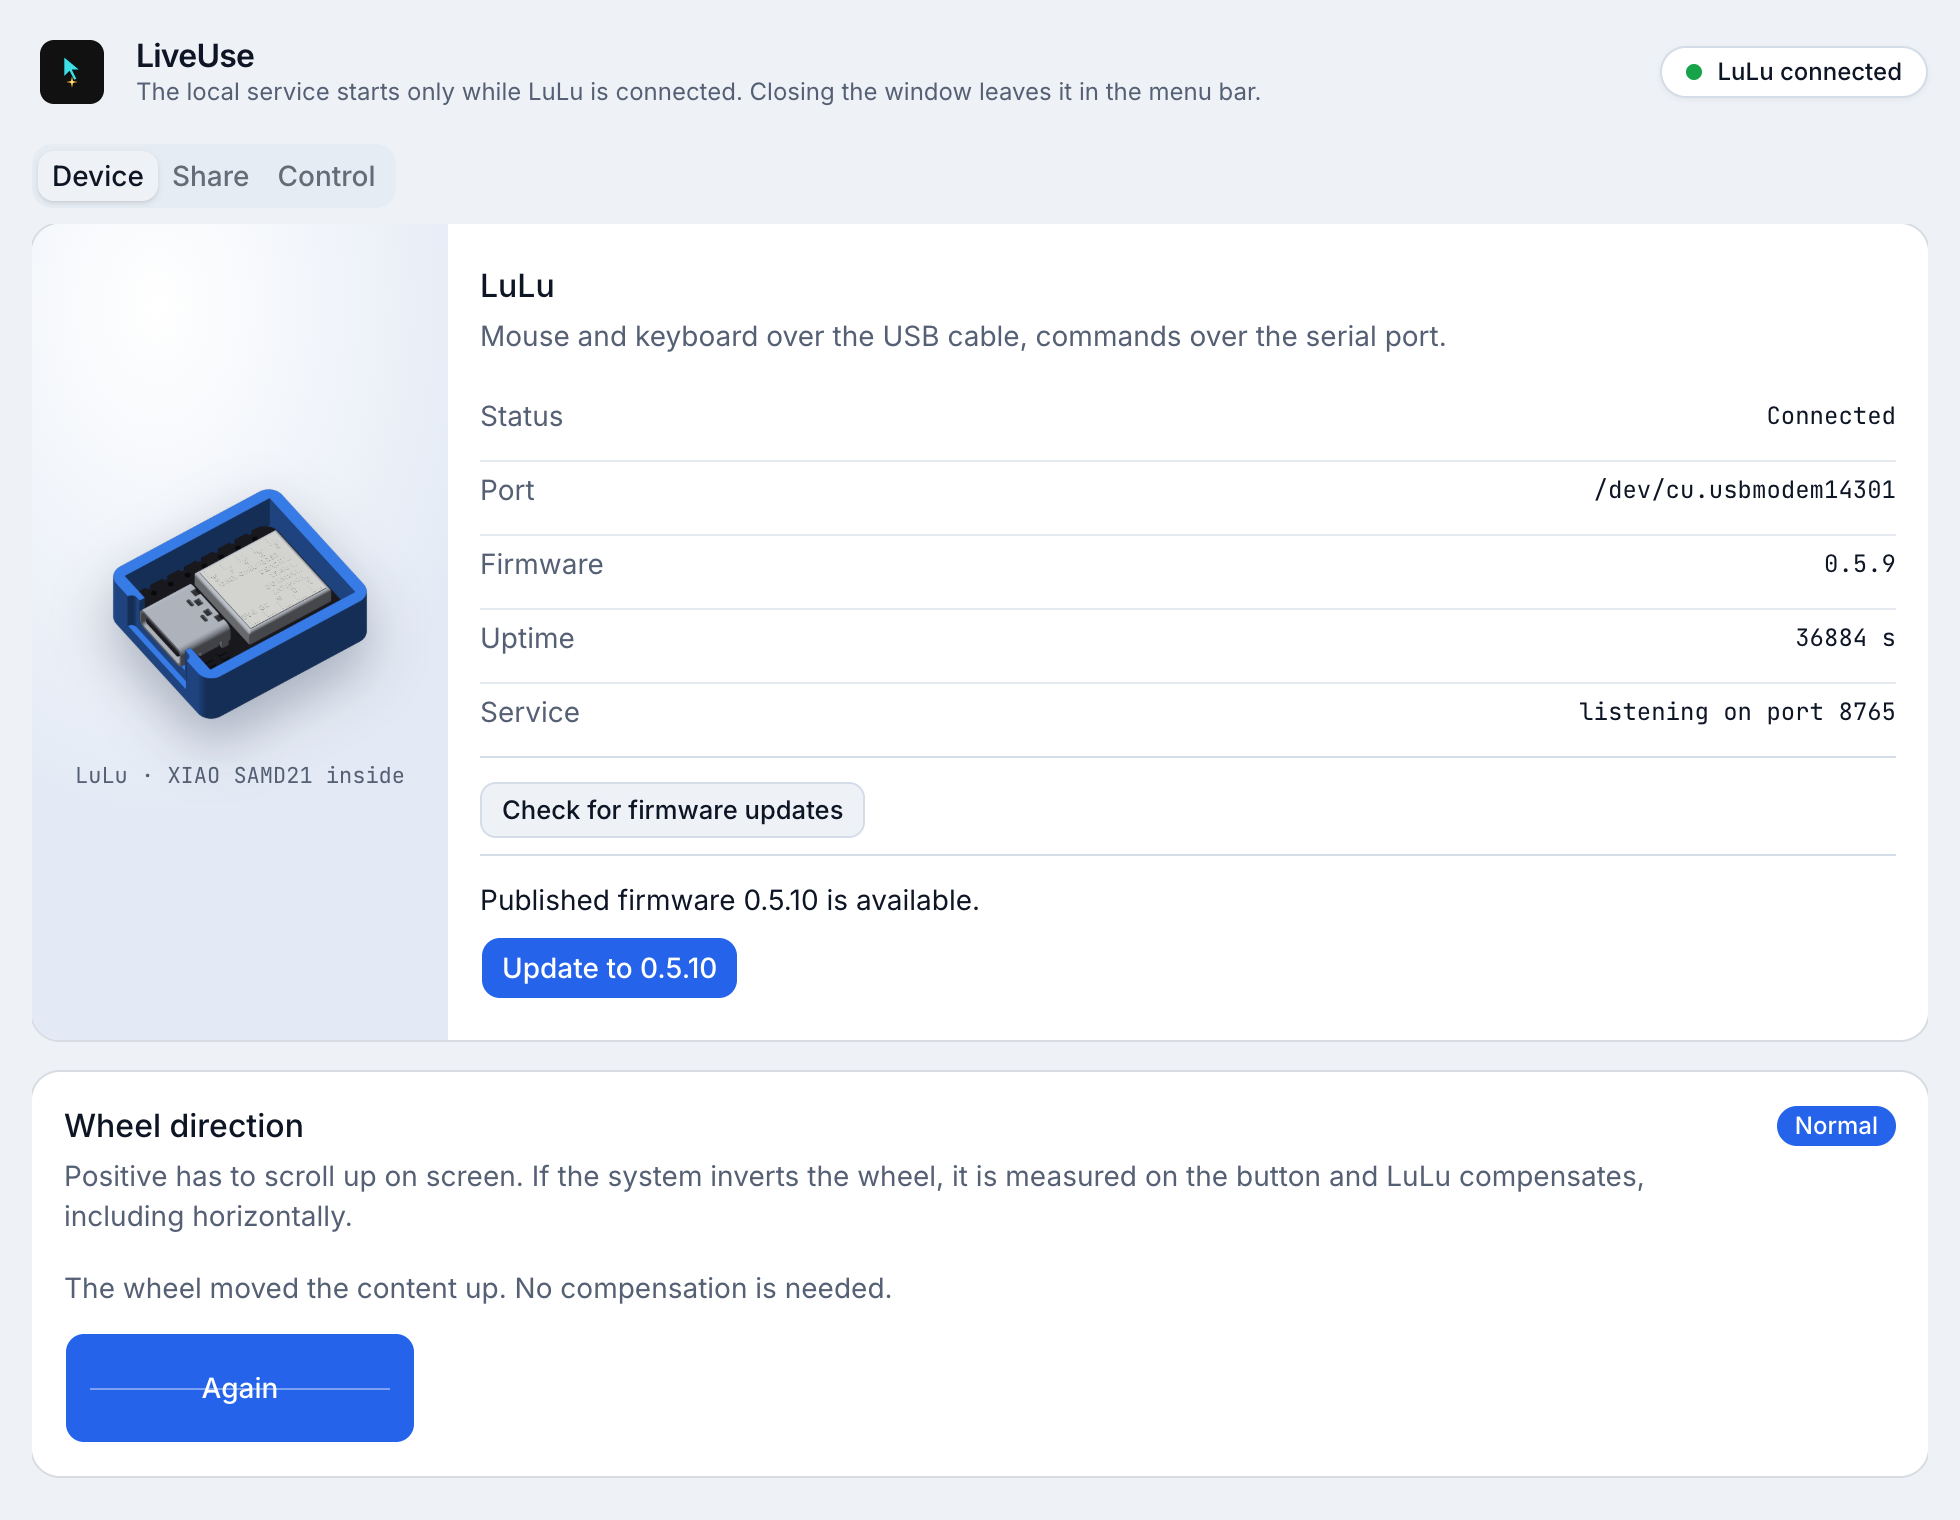
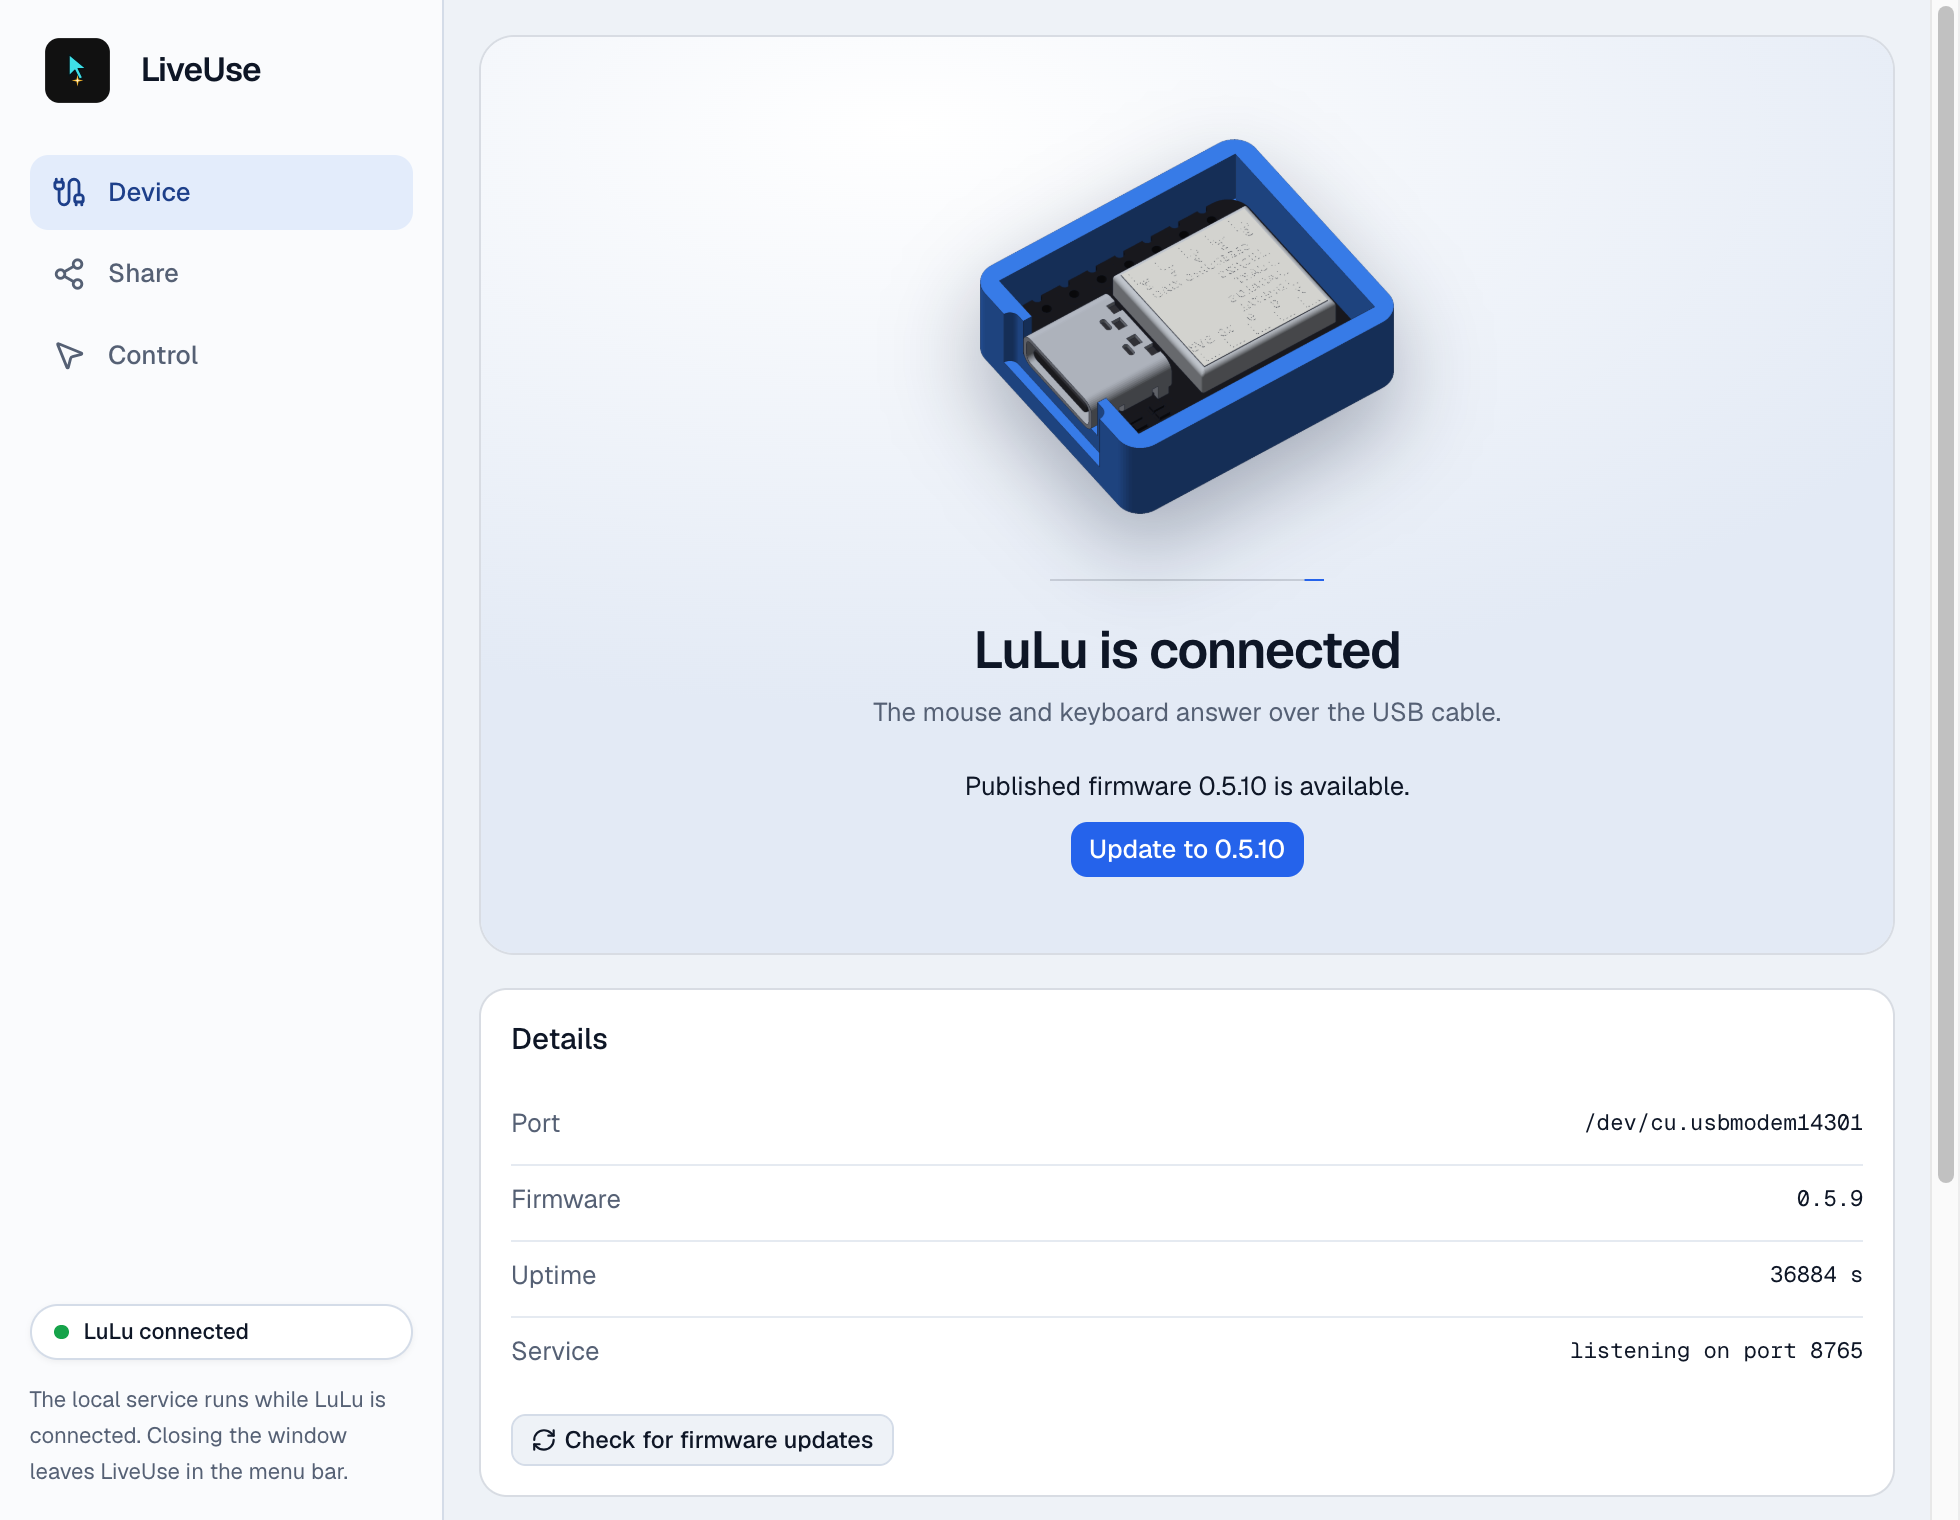
docs(web): refresh help screenshots with the redesigned app
The help page showed the old tabbed layout. Replace the four shots with
the sidebar UI and fix the declared image heights to match.

diff --git a/web/src/app/help/page.tsx b/web/src/app/help/page.tsx
@@ -52,7 +52,7 @@ export default function HelpPage() {
             alt="LiveUse Control tab with Anthropic and Claude Opus 5.5 selected."
             caption="This machine, with Anthropic and Claude Opus 5.5."
             width={1960}
-            height={470}
+            height={1520}
           />
         </section>
 
@@ -107,7 +107,7 @@ export default function HelpPage() {
             alt="LiveUse Control tab set to Remote, with fields for the other computer URL and token."
             caption="Remote is how one LiveUse window drives another Mac on the network."
             width={1960}
-            height={820}
+            height={640}
           />
         </section>
 
